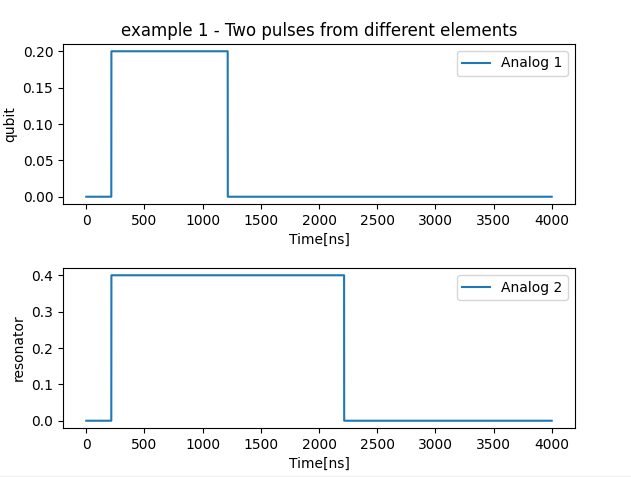
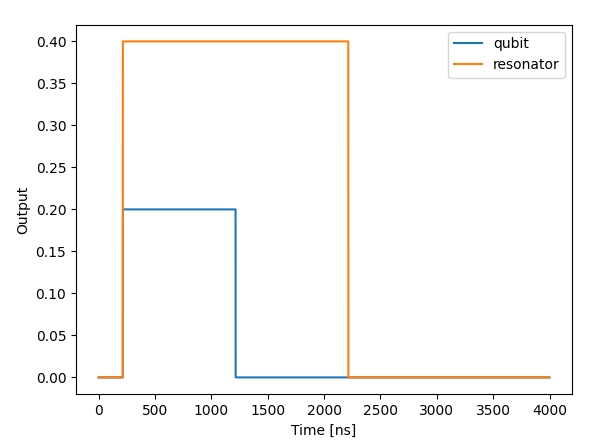
small fixes

Changed region(s): [[0.0, 0.0292, 0.9616, 0.9933]]

diff --git a/Tutorials/intro-to-timing/timing_in_qua.py b/Tutorials/intro-to-timing/timing_in_qua.py
@@ -35,37 +35,18 @@ job = qmm.simulate(config, example1, SimulationConfig(int(1000)))  # in clock cy
 samples = job.get_simulated_samples()
 
 plt.figure(1)
-
-plt.subplot(2, 1, 1)
-samples.con1.plot("1")
-plt.xlabel("Time[ns]")
-plt.ylabel("qubit")
-plt.title("example 1 - Two pulses from different elements")
-plt.subplot(2, 1, 2)
-samples.con1.plot("2")
-plt.xlabel("Time[ns]")
-plt.ylabel("resonator")
-
-plt.subplots_adjust(left=0.1, bottom=0.1, right=0.9, top=0.9, wspace=0.4, hspace=0.4)
-
+samples.con1.plot()
+plt.legend(["qubit", "resonator"])
 
 # Simulate and plot 2nd example
 job = qmm.simulate(config, example2, SimulationConfig(int(1000)))  # in clock cycles, 4 ns
 samples = job.get_simulated_samples()
+plt.title("example 1 - Two pulses from different elements")
 
 plt.figure(2)
-
-plt.subplot(2, 1, 1)
-samples.con1.plot("1")
-plt.xlabel("Time[ns]")
-plt.ylabel("qubit")
+samples.con1.plot()
+plt.legend(["qubit", "resonator"])
 plt.title("example 2 - Two pulses from different elements with wait command")
-plt.subplot(2, 1, 2)
-samples.con1.plot("2")
-plt.xlabel("Time[ns]")
-plt.ylabel("resonator")
-
-plt.subplots_adjust(left=0.1, bottom=0.1, right=0.9, top=0.9, wspace=0.4, hspace=0.4)
 
 # Simulate and plot 3rd example
 job = qmm.simulate(config, example3, SimulationConfig(int(1000)))  # in clock cycles, 4 ns
@@ -73,6 +54,7 @@ samples = job.get_simulated_samples()
 
 plt.figure(3)
 samples.con1.plot()
+plt.legend(["qubit", "resonator"])
 plt.title("example 3 - Two pulses from different elements \n with align command (deterministic case)")
 
 # Simulate and plot 4th example
@@ -81,12 +63,14 @@ samples = job.get_simulated_samples()
 
 plt.figure(4)
 samples.con1.plot()
-plt.title("example 4 - from different elements \n with align command (non-deterministic case)")
+plt.legend(["qubit", "resonator"])
+plt.title("example 4 - Two pulses from different elements \n with align command (non-deterministic case)")
 
 # Simulate and plot 5th example
 job = qmm.simulate(config, example5, SimulationConfig(int(1000)))  # in clock cycles, 4 ns
 samples = job.get_simulated_samples()
 
 plt.figure(5)
-samples.con1.plot()
+samples.con1.plot("analog1")
+plt.legend(["qubit"])
 plt.title("example 5 - Two pulses from the same element")

diff --git a/Tutorials/intro-to-timing/readme.md b/Tutorials/intro-to-timing/readme.md
@@ -25,7 +25,7 @@ The script presents five examples in order to demonstrate the timing in QUA.
 The examples and the figures of each example are described below:
 
 1. Two pulses from different elements.
-![timing_in_qu](timing_example2.png "Two pulses from different elements")
+![timing_in_qu](timing_example1.png "Two pulses from different elements")
 
 2. Two pulses from different elements with wait command.
 ![timing_in_qu](timing_example2.png "Two pulses from different elements with wait command")
@@ -39,7 +39,7 @@ The examples and the figures of each example are described below:
 4. Two pulses from different elements with align command (non-deterministic case).
 ![timing_in_qu](timing_example4.png "Two pulses from different elements with align command (non-deterministic case")
 
-If we play the two elements on the same plot and zoom in to the area where one element ends and the other starts we can see a gap between them.
+If we zoom in to the area where one element ends and the other starts we can see a gap between them.
 ![timing_in_qu](timing_example4b.png "Two pulses from different elements with align command (non-deterministic case")
 
 **Note**:
